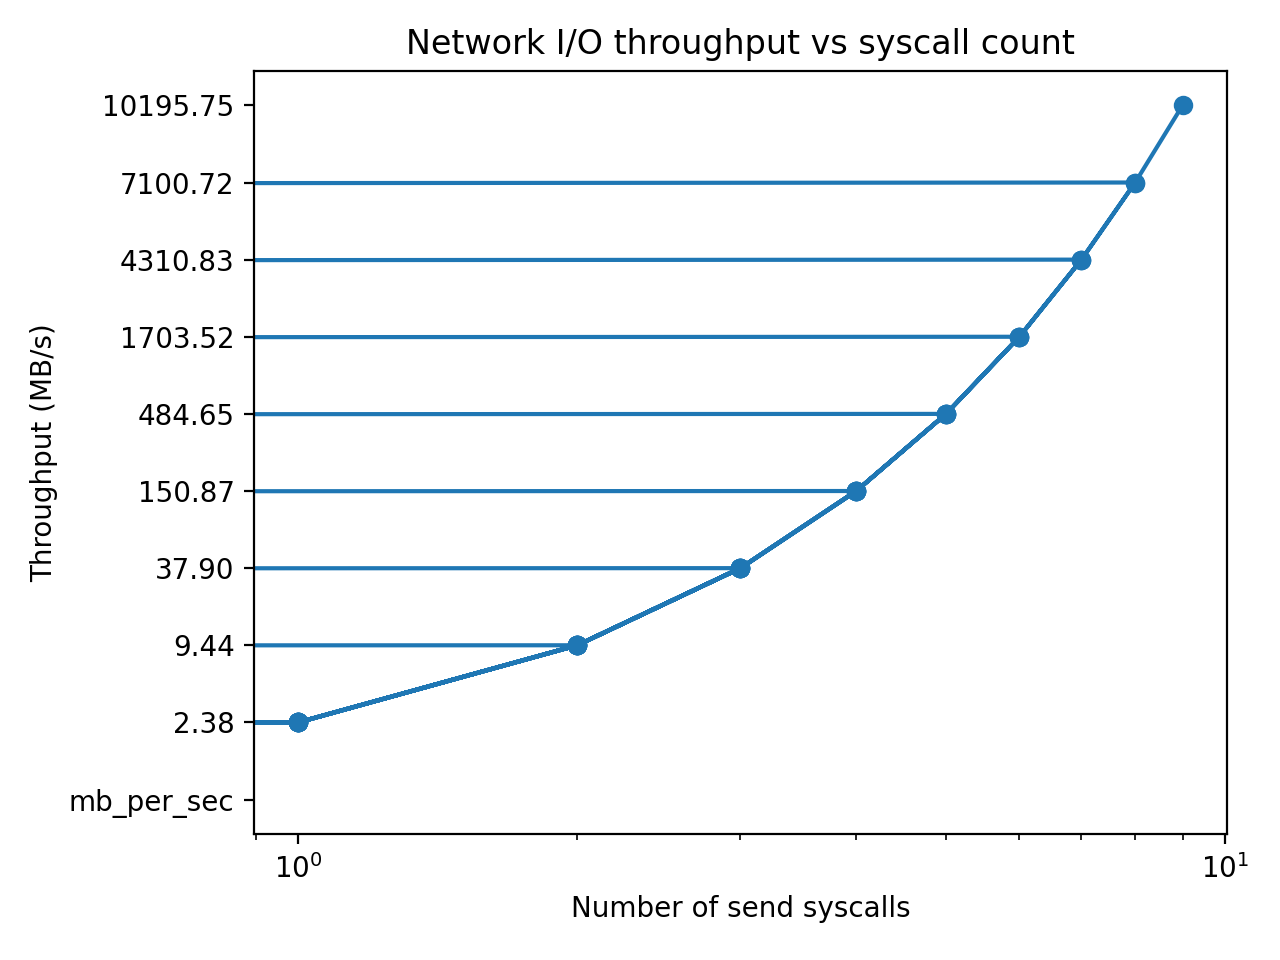
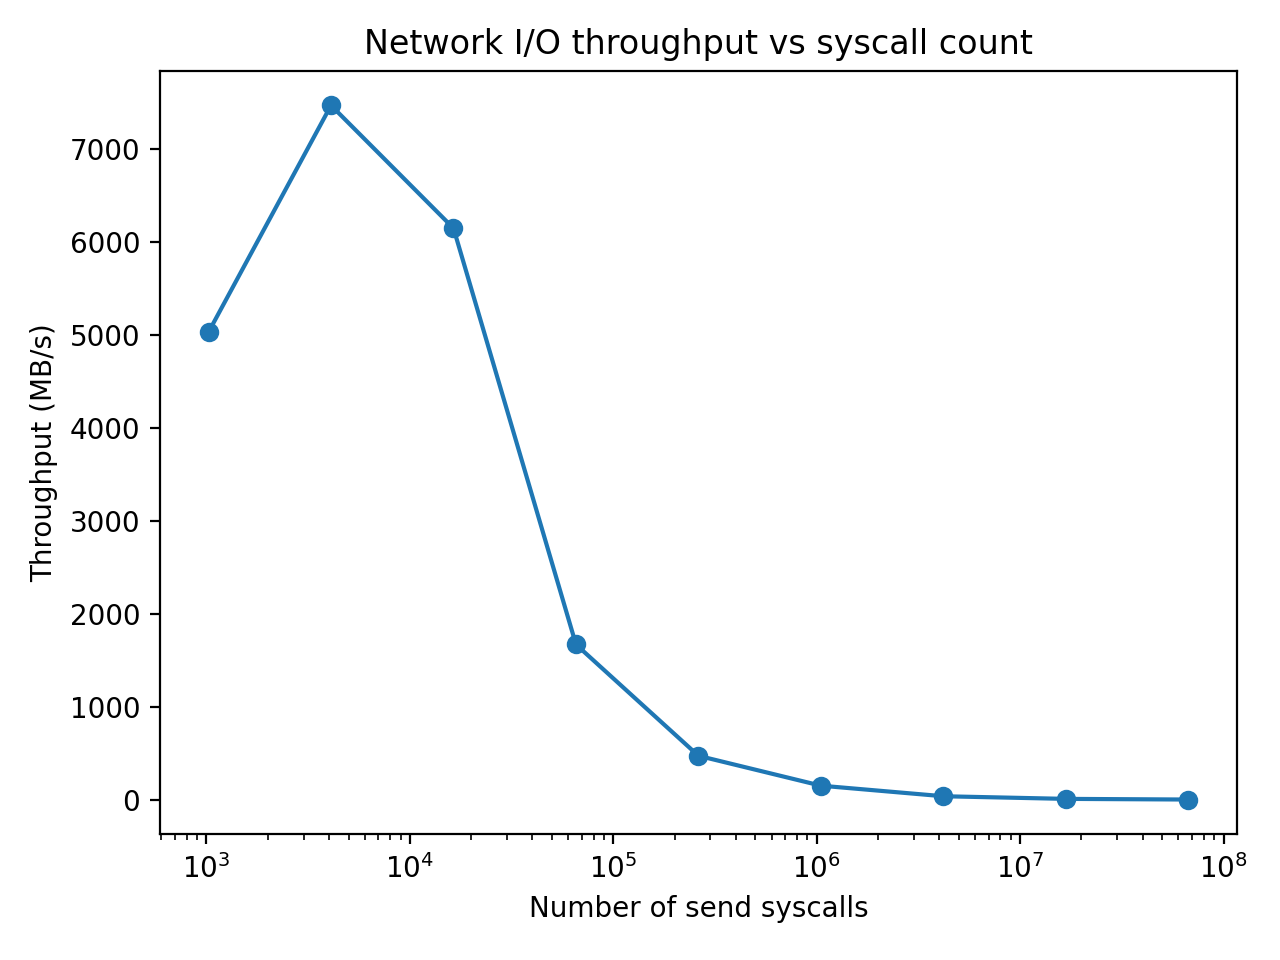
Fix benchmark bugs, regenerate corrupted results, clean up repo
- network_io_bench: flush stdout before fork and use _exit in the child
  so the inherited stdio buffer is not flushed again into the redirected
  CSV; this had duplicated the header and earlier rows once per run,
  corrupting results/raw/network_io.csv
- udp_pps_bench: same fork/stdio fix, which also fixes packets_received
  always parsing as 0 (the buffered CSV header reached the parent
  through the result pipe ahead of the count); install SIGALRM via
  sigaction without SA_RESTART so the alarm actually interrupts a
  blocking recv; let the receiver outlive the sender by one second and
  drain queued packets so the tail of the send window is counted; stop
  the PPS clock before waitpid so receiver lingering does not deflate
  the rates
- syscall_bench: silence -Wunused-but-set-variable warning
- restore the full capture_environment.sh (disk, g++, make, pip3,
  Python package versions) that had been accidentally saved over the
  x86_64 tasks doc, and remove that broken doc and its references
- regenerate network_io.csv, paper_raw_socket_baseline.csv, affected
  plots, and environment metadata on the same ARM64 VM
- stop tracking compiled benchmark binaries and add .gitignore
- README: fix script listing, document plot_results.py, install pandas/
  matplotlib via apt (pip3 install fails on Ubuntu 26.04 PEP 668)

diff --git a/benchmarks/paper_raw_socket/udp_pps_bench.c b/benchmarks/paper_raw_socket/udp_pps_bench.c
@@ -52,8 +52,11 @@ static void receiver(int port, int duration_seconds) {
         exit(1);
     }
 
-    signal(SIGALRM, on_alarm);
-    alarm(duration_seconds);
+    struct sigaction sa;
+    memset(&sa, 0, sizeof(sa));
+    sa.sa_handler = on_alarm;
+    sigaction(SIGALRM, &sa, NULL);
+    alarm((unsigned int)duration_seconds + 1);
 
     char buf[2048];
     uint64_t packets = 0;
@@ -73,6 +76,15 @@ static void receiver(int port, int duration_seconds) {
             packets++;
             checksum += (uint64_t)buf[0];
         }
+    }
+
+    while (1) {
+        ssize_t ret = recv(fd, buf, sizeof(buf), MSG_DONTWAIT);
+        if (ret <= 0) {
+            break;
+        }
+        packets++;
+        checksum += (uint64_t)buf[0];
     }
 
     if (checksum == 0xdeadbeef) {
@@ -147,6 +159,8 @@ static void run_one(size_t packet_size, int duration_seconds, int port) {
         exit(1);
     }
 
+    fflush(stdout);
+
     pid_t child = fork();
     if (child < 0) {
         fprintf(stderr, "fork failed: %s\n", strerror(errno));
@@ -158,10 +172,8 @@ static void run_one(size_t packet_size, int duration_seconds, int port) {
         dup2(pipefd[1], STDOUT_FILENO);
         close(pipefd[1]);
         receiver(port, duration_seconds);
-        exit(0);
+        _exit(0);
     }
-
-
 
     close(pipefd[1]);
     usleep(200000);
@@ -171,8 +183,8 @@ static void run_one(size_t packet_size, int duration_seconds, int port) {
 
     uint64_t sent = sender(port, packet_size, duration_seconds);
 
-    waitpid(child, NULL, 0);
     clock_gettime(CLOCK_MONOTONIC_RAW, &end);
+    waitpid(child, NULL, 0);
 
     char output[128] = {0};
     ssize_t n = read(pipefd[0], output, sizeof(output) - 1);

diff --git a/benchmarks/network_io/network_io_bench.c b/benchmarks/network_io/network_io_bench.c
@@ -43,6 +43,8 @@ static long long send_benchmark(size_t total_bytes, size_t chunk_size) {
         exit(1);
     }
 
+    fflush(stdout);
+
     pid_t child = fork();
     if (child < 0) {
         fprintf(stderr, "fork failed: %s\n", strerror(errno));
@@ -53,7 +55,7 @@ static long long send_benchmark(size_t total_bytes, size_t chunk_size) {
         close(sv[0]);
         receiver_loop(sv[1], total_bytes);
         close(sv[1]);
-        exit(0);
+        _exit(0);
     }
 
     close(sv[1]);

diff --git a/benchmarks/syscall_overhead/syscall_bench.c b/benchmarks/syscall_overhead/syscall_bench.c
@@ -34,6 +34,7 @@ static long long bench_getpid(long iterations) {
     }
     clock_gettime(CLOCK_MONOTONIC_RAW, &end);
 
+    (void)pid;
     return nsec_diff(start, end);
 }
 

diff --git a/README.md b/README.md
@@ -14,8 +14,7 @@ This repository is not a full reimplementation of the paper’s kernel-level Use
 - raw CSV result files,
 - generated plots,
 - reproducibility scripts,
-- documentation for the ARM64 VM environment,
-- a separate task plan for x86_64 artifact reproduction.
+- documentation for the ARM64 VM environment.
 
 The current ARM64 results should be interpreted as **baseline / adapted reproduction results**, not as direct performance claims against the paper’s original x86_64 setup.
 
@@ -87,8 +86,7 @@ docs/reproducibility.md
 │   └── syscall_overhead/
 ├── docs/
 │   ├── experiment_matrix.md
-│   ├── reproducibility.md
-│   └── x86_64_friend_tasks.md
+│   └── reproducibility.md
 ├── results/
 │   ├── raw/
 │   ├── plots/
@@ -98,9 +96,13 @@ docs/reproducibility.md
 │   ├── run_paper_redis.sh
 │   ├── run_paper_nginx.sh
 │   ├── run_paper_raw_socket.sh
+│   ├── run_syscall_overhead.sh
+│   ├── run_file_io.sh
+│   ├── run_network_io.sh
 │   ├── plot_paper_redis.py
 │   ├── plot_paper_nginx.py
 │   ├── plot_paper_raw_socket.py
+│   ├── plot_results.py
 │   ├── capture_environment.sh
 │   └── check_artifacts.sh
 └── README.md
@@ -339,9 +341,8 @@ results/raw/network_io.csv
 
 ```bash
 sudo apt update
-sudo apt install -y git gcc g++ make cmake python3 python3-pip curl wget unzip vim \
-    redis-server redis-tools nginx wrk
-pip3 install pandas matplotlib
+sudo apt install -y git gcc g++ make cmake python3 python3-pandas python3-matplotlib \
+    curl wget unzip vim redis-server redis-tools nginx wrk
 ```
 
 ## 2. Clone the repository
@@ -372,6 +373,7 @@ cd Userspace-Bypass-Accelerating-Syscall-intensive-Applications
 ./scripts/plot_paper_redis.py
 ./scripts/plot_paper_nginx.py
 ./scripts/plot_paper_raw_socket.py
+./scripts/plot_results.py
 ```
 
 ## 6. Check expected artifacts
@@ -393,12 +395,6 @@ The paper’s original evaluation is expected to be closer to a native x86_64 Li
 - preparing comparison points for x86_64 experiments.
 
 They should not be used as direct replacements for the paper’s original Userspace Bypass measurements.
-
-The x86_64 follow-up task list is documented in:
-
-```text
-docs/x86_64_friend_tasks.md
-```
 
 ---
 